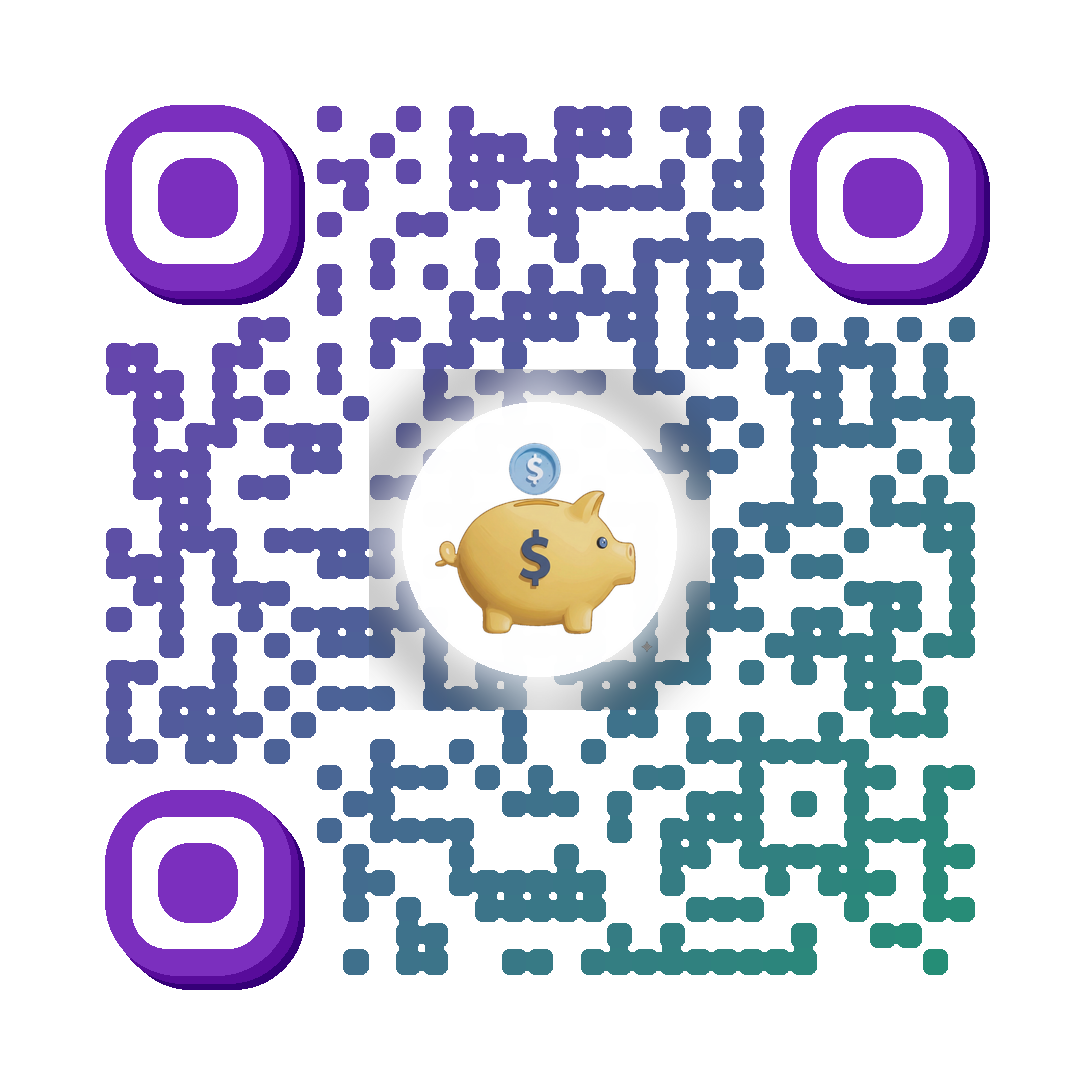
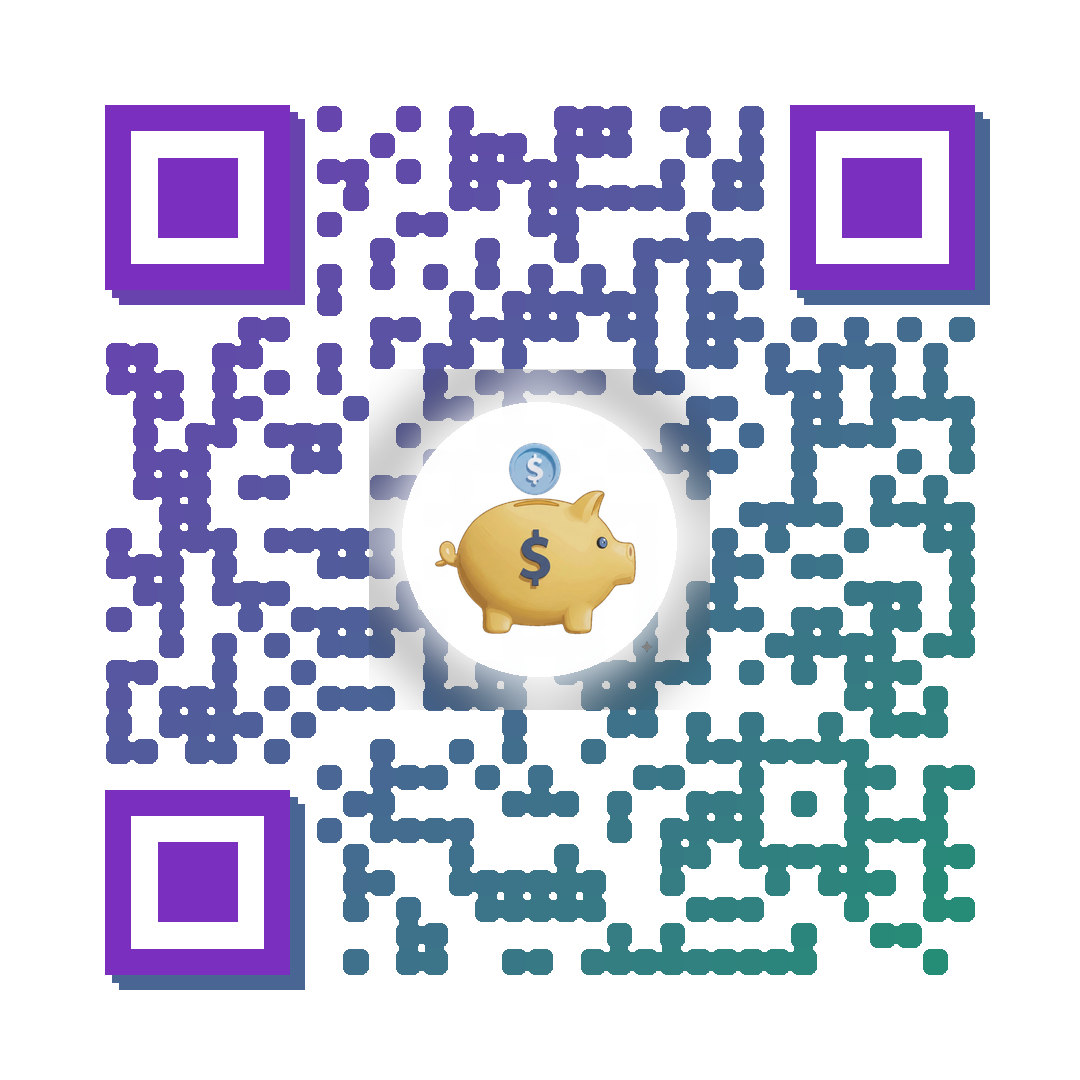
Fix finder eyes: sharp corners, stacked square border frames
Replaces rounded blobs with square-cornered border rings and
offset shadow copies that peek out bottom-right like stacked paper.

https://claude.ai/code/session_01Rj3emApDmUQom9cwPgUf66

diff --git a/generate_qr.py b/generate_qr.py
@@ -122,41 +122,33 @@ for row in range(N):
 
 
 # ── STACKED 3-D FINDER EYES ───────────────────────────────────────────────────
-# Three concentric frames drawn back-to-front with increasing offsets,
-# simulating physical layers stacked toward the viewer.
+# Sharp-cornered square border frames stacked like paper layers.
+# Shadow copies offset toward bottom-right peek out behind the front frame.
 
 def draw_stacked_eye(r0c, c0c):
-    c0  = c0c * cell
-    r0  = r0c * cell
-    S7  = 7 * cell
-    # corner radius — very large → trapezoidal-looking border segments
-    outer_r = S7 * 0.40
+    c0 = c0c * cell
+    r0 = r0c * cell
+    S7 = 7 * cell
+    bw = cell * 0.85   # border ring thickness
 
-    # ── back layers (offset down-right, progressively darker purple) ──
-    for i, (off, alpha) in enumerate([(cell*0.55, 120), (cell*0.30, 170)]):
-        shade = tuple(max(0, COLOR_A[j] - 35*(2-i)) for j in range(3))
-        # outer ring only (not filled — just the border rectangle)
-        draw.rounded_rectangle(
-            [c0+off, r0+off, c0+S7+off, r0+S7+off],
-            radius=outer_r * 0.95, fill=shade + (alpha,))
-        # white cutout for ring effect
-        g = cell * 1.05
-        draw.rounded_rectangle(
-            [c0+off+g, r0+off+g, c0+S7+off-g, r0+S7+off-g],
-            radius=outer_r * 0.55, fill=(255,255,255, alpha))
+    # ── shadow layers drawn back-to-front so front layer occludes top-left ──
+    for off, alpha in [(cell * 0.55, 100), (cell * 0.28, 160)]:
+        shade = grad(c0 + S7 / 2 + off, r0 + S7 / 2 + off)
+        # filled rect then hollow = border ring, sharp corners
+        draw.rectangle([c0+off, r0+off, c0+S7+off, r0+S7+off],
+                       fill=shade + (alpha,))
+        draw.rectangle([c0+off+bw, r0+off+bw, c0+S7+off-bw, r0+S7+off-bw],
+                       fill=(255, 255, 255, alpha))
 
-    # ── front (main) layer ────────────────────────────────────────────────────
-    # outer filled shield
-    draw.rounded_rectangle([c0, r0, c0+S7, r0+S7],
-                           radius=outer_r, fill=COLOR_A + (255,))
+    # ── front (main) layer — sharp corners ──────────────────────────────────
+    # outer border ring
+    draw.rectangle([c0, r0, c0+S7, r0+S7], fill=COLOR_A + (255,))
     # white gap
     g = cell
-    draw.rounded_rectangle([c0+g, r0+g, c0+S7-g, r0+S7-g],
-                           radius=outer_r * 0.48, fill=(255,255,255,255))
+    draw.rectangle([c0+g, r0+g, c0+S7-g, r0+S7-g], fill=(255, 255, 255, 255))
     # inner solid core
     m = cell * 2
-    draw.rounded_rectangle([c0+m, r0+m, c0+S7-m, r0+S7-m],
-                           radius=outer_r * 0.42, fill=COLOR_A + (255,))
+    draw.rectangle([c0+m, r0+m, c0+S7-m, r0+S7-m], fill=COLOR_A + (255,))
 
 draw_stacked_eye(QUIET,           QUIET)
 draw_stacked_eye(QUIET,           N - QUIET - 7)
